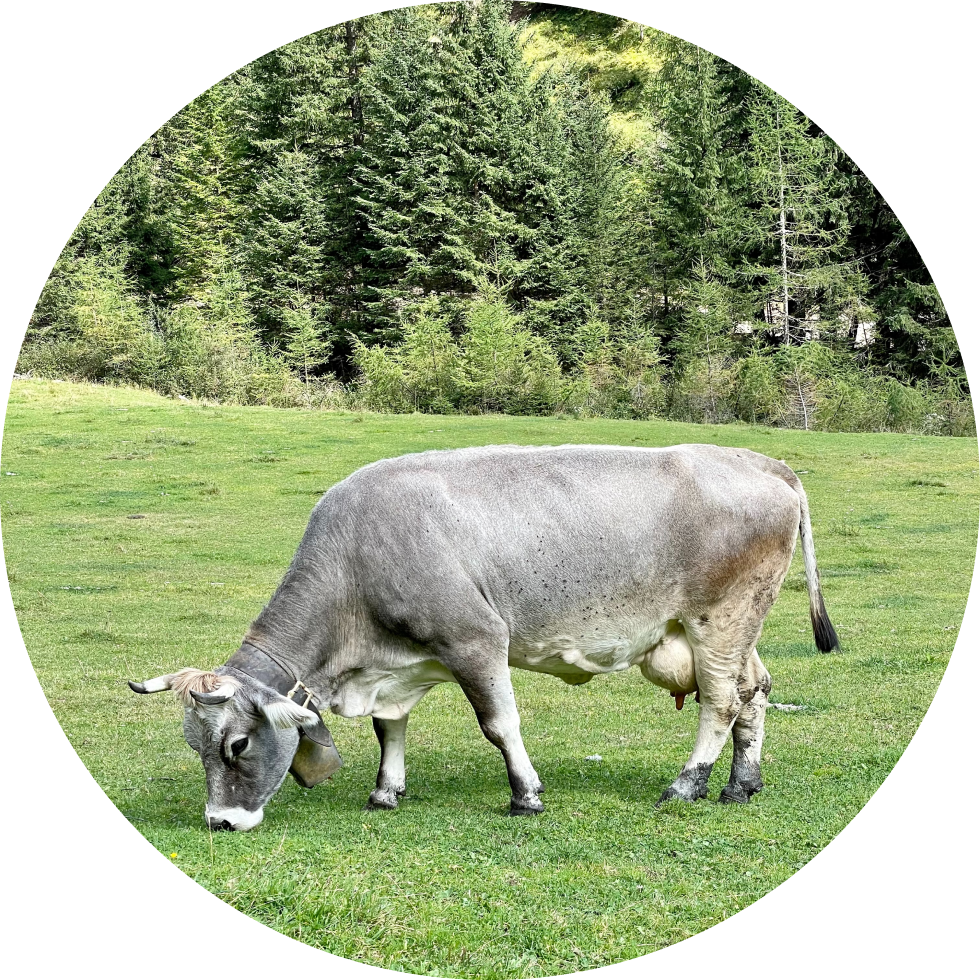
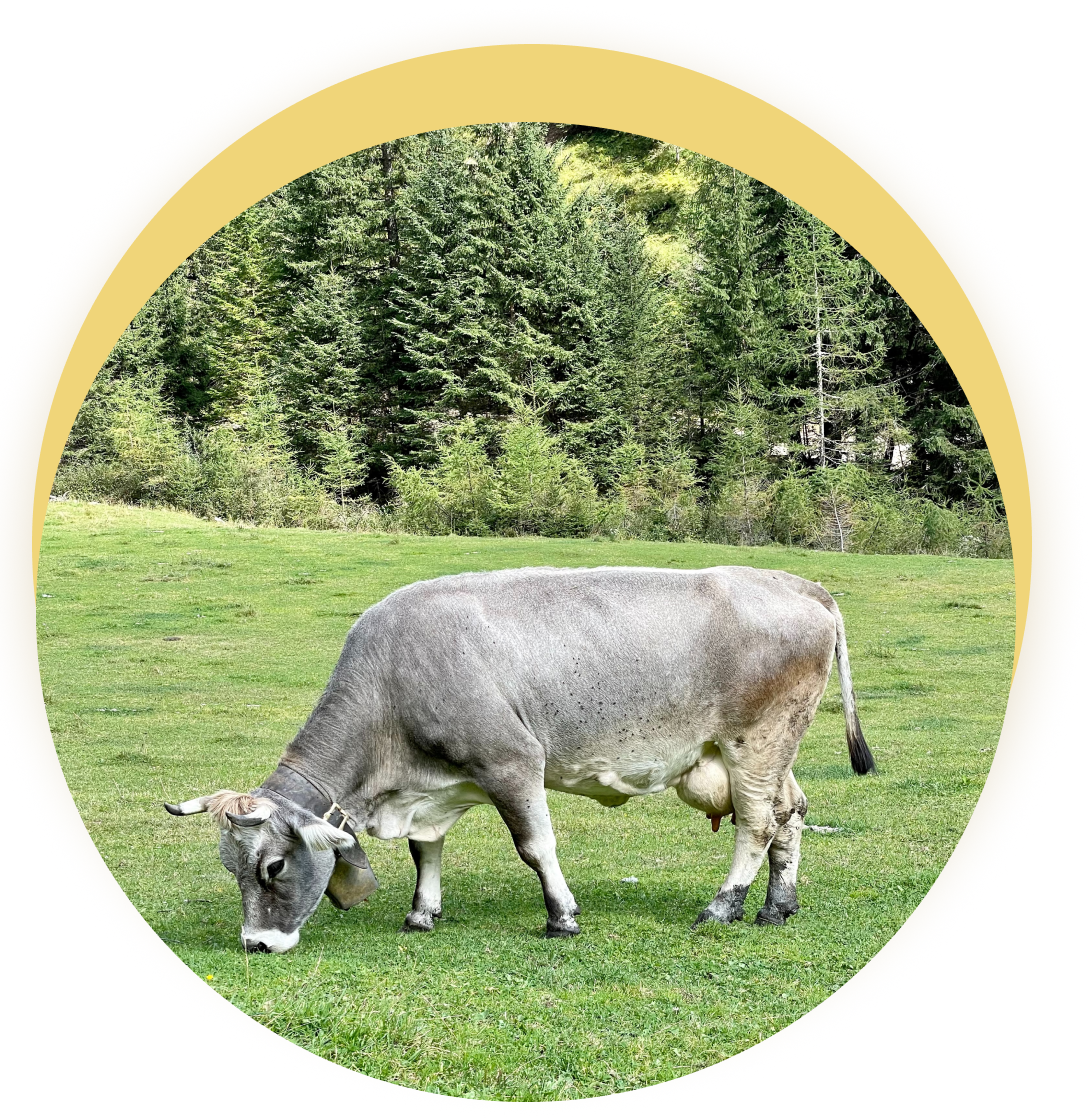
add cow

diff --git a/src/sass/_about.scss b/src/sass/_about.scss
@@ -1,23 +1,6 @@
 .about {
   background-color: var(--secondary-bg);
   padding-top: 60px;
-  padding-right: 58px;
-  padding-left: 52px;
-  padding-bottom: 42px;
-  @media screen and (min-width: 768px) {
-    padding-left: 16px;
-    padding-right: 16px;
-  }
-  @media screen and (min-width: 1200px) {
-    min-width: 1200px;
-    padding-left: 15px;
-    padding-right: 15px;
-  }
-}
-.container {
-  @media screen and (min-width: 480px) {
-    width: 100%;
-  }
 }
 .about__name {
   margin-bottom: 15px;
@@ -60,105 +43,52 @@
     letter-spacing: 0.06em;
   }
 }
+
 .about__pictures {
-  position: relative;
   @media screen and (min-width: 768px) {
     display: flex;
-    align-items: flex-start;
+    align-items: center;
+    justify-content: space-between;
+  }
+  @media screen and (min-width: 1200px) {
     justify-content: center;
-  }
-  @media screen and (min-width: 1200px) {
-    justify-content: flex-start;
+    gap: 100px;
   }
 }
-.circle {
-  position: relative;
-  width: 280px;
-  height: 280px;
-  border-radius: 50%;
-  background: linear-gradient(
-      0deg,
-      rgba(248, 210, 78, 0.7),
-      rgba(248, 210, 78, 0.7)
-    ),
-    #d9d9d9;
 
-  box-shadow: 0px 5.30813px 19.9055px rgba(153, 114, 23, 0.25);
-  @media screen and (min-width: 0px) {
-    left: -55px;
-  }
-  @media screen and (min-width: 321px) {
-    left: -30px;
-  }
-  @media screen and (min-width: 400px) {
-    left: 6px;
-  }
-  @media screen and (min-width: 479px) {
-    left: 51px;
-  }
-  @media screen and (min-width: 600px) {
-    left: 80px;
-  }
-  @media screen and (min-width: 700px) {
-    left: 130px;
-  }
-
-  @media screen and (min-width: 768px) {
-    top: 32px;
-    left: 0px;
-    width: 335px;
-    height: 335px;
-  }
-  @media screen and (min-width: 1200px) {
-    margin-top: 39px;
-    width: 490px;
-    height: 490px;
-    left: 20px;
-  }
-}
 .about__img {
   display: block;
   margin-left: auto;
   margin-right: auto;
-  position: absolute;
   width: 280px;
   margin-top: 21px;
-  display: inline;
   text-align: center;
   @media screen and (min-width: 768px) {
-    margin-bottom: 25px;
-    margin-right: 32px;
-    margin-top: 21px;
+    display: inline;
+    margin-top: 0px;
     width: 335px;
   }
   @media screen and (min-width: 1200px) {
     margin-top: 39px;
     width: 490px;
-    box-shadow: none;
-    background: none;
   }
 }
 
 .about__content {
   padding-top: 40px;
-  align-items: center;
+  text-align: center;
   @media screen and (min-width: 768px) {
+    display: inline-block;
     width: 336px;
-    padding-right: 0;
-    padding-left: 32px;
   }
   @media screen and (min-width: 1200px) {
     min-width: 463px;
-    padding-right: 0;
-    padding-left: 200px;
-    padding-top: 172px;
   }
 }
 .about__paragraph {
   width: 100%;
   margin-bottom: 3px;
   font-family: var(--primary-font);
-  font-style: normal;
   font-weight: 400;
   font-size: 12px;
   line-height: 1.75;
@@ -176,9 +106,8 @@
   }
 }
 .about__text {
-  margin-bottom: 8px;
+  margin-bottom: 20px;
   font-family: var(--primary-font);
-  font-style: normal;
   font-weight: 400;
   font-size: 12px;
   line-height: 1.58;
@@ -256,6 +185,6 @@
   }
 
   @media screen and (min-width: 768px) {
-    margin-top: 48px;
+    margin-top: 40px;
   }
 }

diff --git a/src/partials/about.html b/src/partials/about.html
@@ -3,37 +3,35 @@
     <p data-aos="fade-down" class="about__name">Traditiion and love</p>
     <h2 data-aos="fade-down" class="about__title">How it's made?</h2>
     <div class="about__pictures">
-      <div class="circle">
-        <picture>
-          <source
-            srcset="
-              ./images/about/cow-circl-desktop.png    1x,
-              ./images/about/cow-circl-desktop@2x.png 2x
-            "
-            media="(min-width:1200px)"
-          />
-          <source
-            srcset="
-              ./images/about/cow-circl-tablet.png    1x,
-              ./images/about/cow-circl-tablet@2x.png 2x
-            "
-            media="(min-width:768px)"
-          />
-          <source
-            srcset="
-              ./images/about/cow-circl-mobile.png    1x,
-              ./images/about/cow-circl-mobile@2x.png 2x
-            "
-            media="(min-width:320px)"
-          />
-          <img
-            class="about__img"
-            src="./images/about/cow-circl-desktop.png"
-            alt="Cow"
-            width="490"
-          />
-        </picture>
-      </div>
+      <picture>
+        <source
+          srcset="
+            ./images/about/cow-circl-desktop.png    1x,
+            ./images/about/cow-circl-desktop@2x.png 2x
+          "
+          media="(min-width:1200px)"
+        />
+        <source
+          srcset="
+            ./images/about/cow-circl-tablet.png    1x,
+            ./images/about/cow-circl-tablet@2x.png 2x
+          "
+          media="(min-width:768px)"
+        />
+        <source
+          srcset="
+            ./images/about/cow-circl-mobile.png    1x,
+            ./images/about/cow-circl-mobile@2x.png 2x
+          "
+          media="(min-width:320px)"
+        />
+        <img
+          class="about__img"
+          src="./images/about/cow-circl-desktop.png"
+          alt="Cow"
+          width="490"
+        />
+      </picture>
       <div class="about__content">
         <p data-aos="fade-left" class="about__paragraph">
           Ice is a place where you will become not only a little happier, but

diff --git a/src/sass/_customer-reviews.scss b/src/sass/_customer-reviews.scss
@@ -114,15 +114,9 @@
   margin-right: auto;
   border-radius: 50%;
   @media screen and (min-width: 480px) {
-    box-shadow: 0 8px 30px rgba(0, 0, 0, 0.4);
+    box-shadow: 2px 8px 30px rgba(0, 0, 0, 0.4);
     transition: box-shadow 250ms cubic-bezier(0.4, 0, 0.2, 1);
     transition: 250ms cubic-bezier(0.4, 0, 0.2, 1);
-    &:hover,
-    &:focus {
-      border-radius: 50%;
-      transform: scale(1.05);
-      box-shadow: 0 8px 30px rgba(0, 0, 0, 0.4);
-    }
   }
 }
 .customer-reviews__text {
@@ -149,12 +143,6 @@
     box-shadow: 0 8px 30px rgba(0, 0, 0, 0.4);
     transition: box-shadow 250ms cubic-bezier(0.4, 0, 0.2, 1);
     transition: 250ms cubic-bezier(0.4, 0, 0.2, 1);
-    &:hover,
-    &:focus {
-      border-radius: 10px;
-      transform: scale(1.05);
-      box-shadow: 0 8px 30px rgba(0, 0, 0, 0.4);
-    }
   }
 }
 @media screen and (min-width: 768px) {
@@ -205,8 +193,8 @@
   opacity: 1;
 }
 .slick-dots li.slick-active button:before {
-  width: 14px;
-  height: 14px;
+  width: 16px;
+  height: 16px;
   color: var(--secondary-bg);
   background-color: var(--secondary-bg);
   border-radius: 8px;

diff --git a/src/sass/components/_modal-products.scss b/src/sass/components/_modal-products.scss
@@ -3,16 +3,22 @@
   flex-direction: column;
   align-items: center;
   z-index: 30;
-  position: absolute;
-  top: 50%;
-  left: 50%;
-  transform: translate(-50%, -50%);
+  position: relative;
+  margin-left: auto;
+  margin-right: auto;
   padding: 20px;
   width: 280px;
   height: auto;
   border: 2px solid var(--accent-color);
   background: var(--primary-text-color);
   border-radius: 10px;
+
+  @media screen and (min-width: 768px) {
+    position: absolute;
+    top: 50%;
+    left: 50%;
+    transform: translate(-50%, -50%);
+  }
 }
 
 .ingredients-ice-cream__title {
@@ -25,7 +31,7 @@
   color: var(--secondary-text-color);
 }
 .ingredients-ice-cream__img {
-  margin-bottom: 12px;
+  margin-bottom: 10px;
 }
 
 @media screen and (min-width: 768px) {

diff --git a/src/sass/components/_modal-about.scss b/src/sass/components/_modal-about.scss
@@ -5,7 +5,7 @@
   z-index: 100;
   width: 100%;
   height: 100%;
-  background-color: rgba(0, 0, 0, 0.2);
+  background-color: rgba(59, 53, 53, 0.1);
   &.is-hidden {
     opacity: 0;
     pointer-events: none;
@@ -22,7 +22,7 @@
   transform: translate(-50%, -50%);
   width: 280px;
   background: var(--card-yellow);
-  border-radius: 4px;
+  border-radius: 10px;
   border: 2px solid var(--card-red);
   box-shadow: 0px 1px 3px rgba(0, 0, 0, 0.12), 0px 1px 1px rgba(0, 0, 0, 0.14),
     0px 2px 1px rgba(0, 0, 0, 0.2);

diff --git a/src/index.html b/src/index.html
@@ -39,7 +39,6 @@
     <include src="./partials/products.html"></include>
     <include src="./partials/about.html"></include>
     <include src="./partials/advantages.html"></include>
-    <include src="./partials/gallery.html"></include>
     <include src="./partials/customer-reviews.html"></include>
     <include src="./partials/contacts.html"></include>
     <include src="./partials/footer.html"></include>

diff --git a/src/sass/index.scss b/src/sass/index.scss
@@ -17,7 +17,6 @@
 @import './products';
 @import './about';
 @import './advantages';
-@import './gallery';
 @import './customer-reviews';
 @import './contacts';
 @import './footer';
